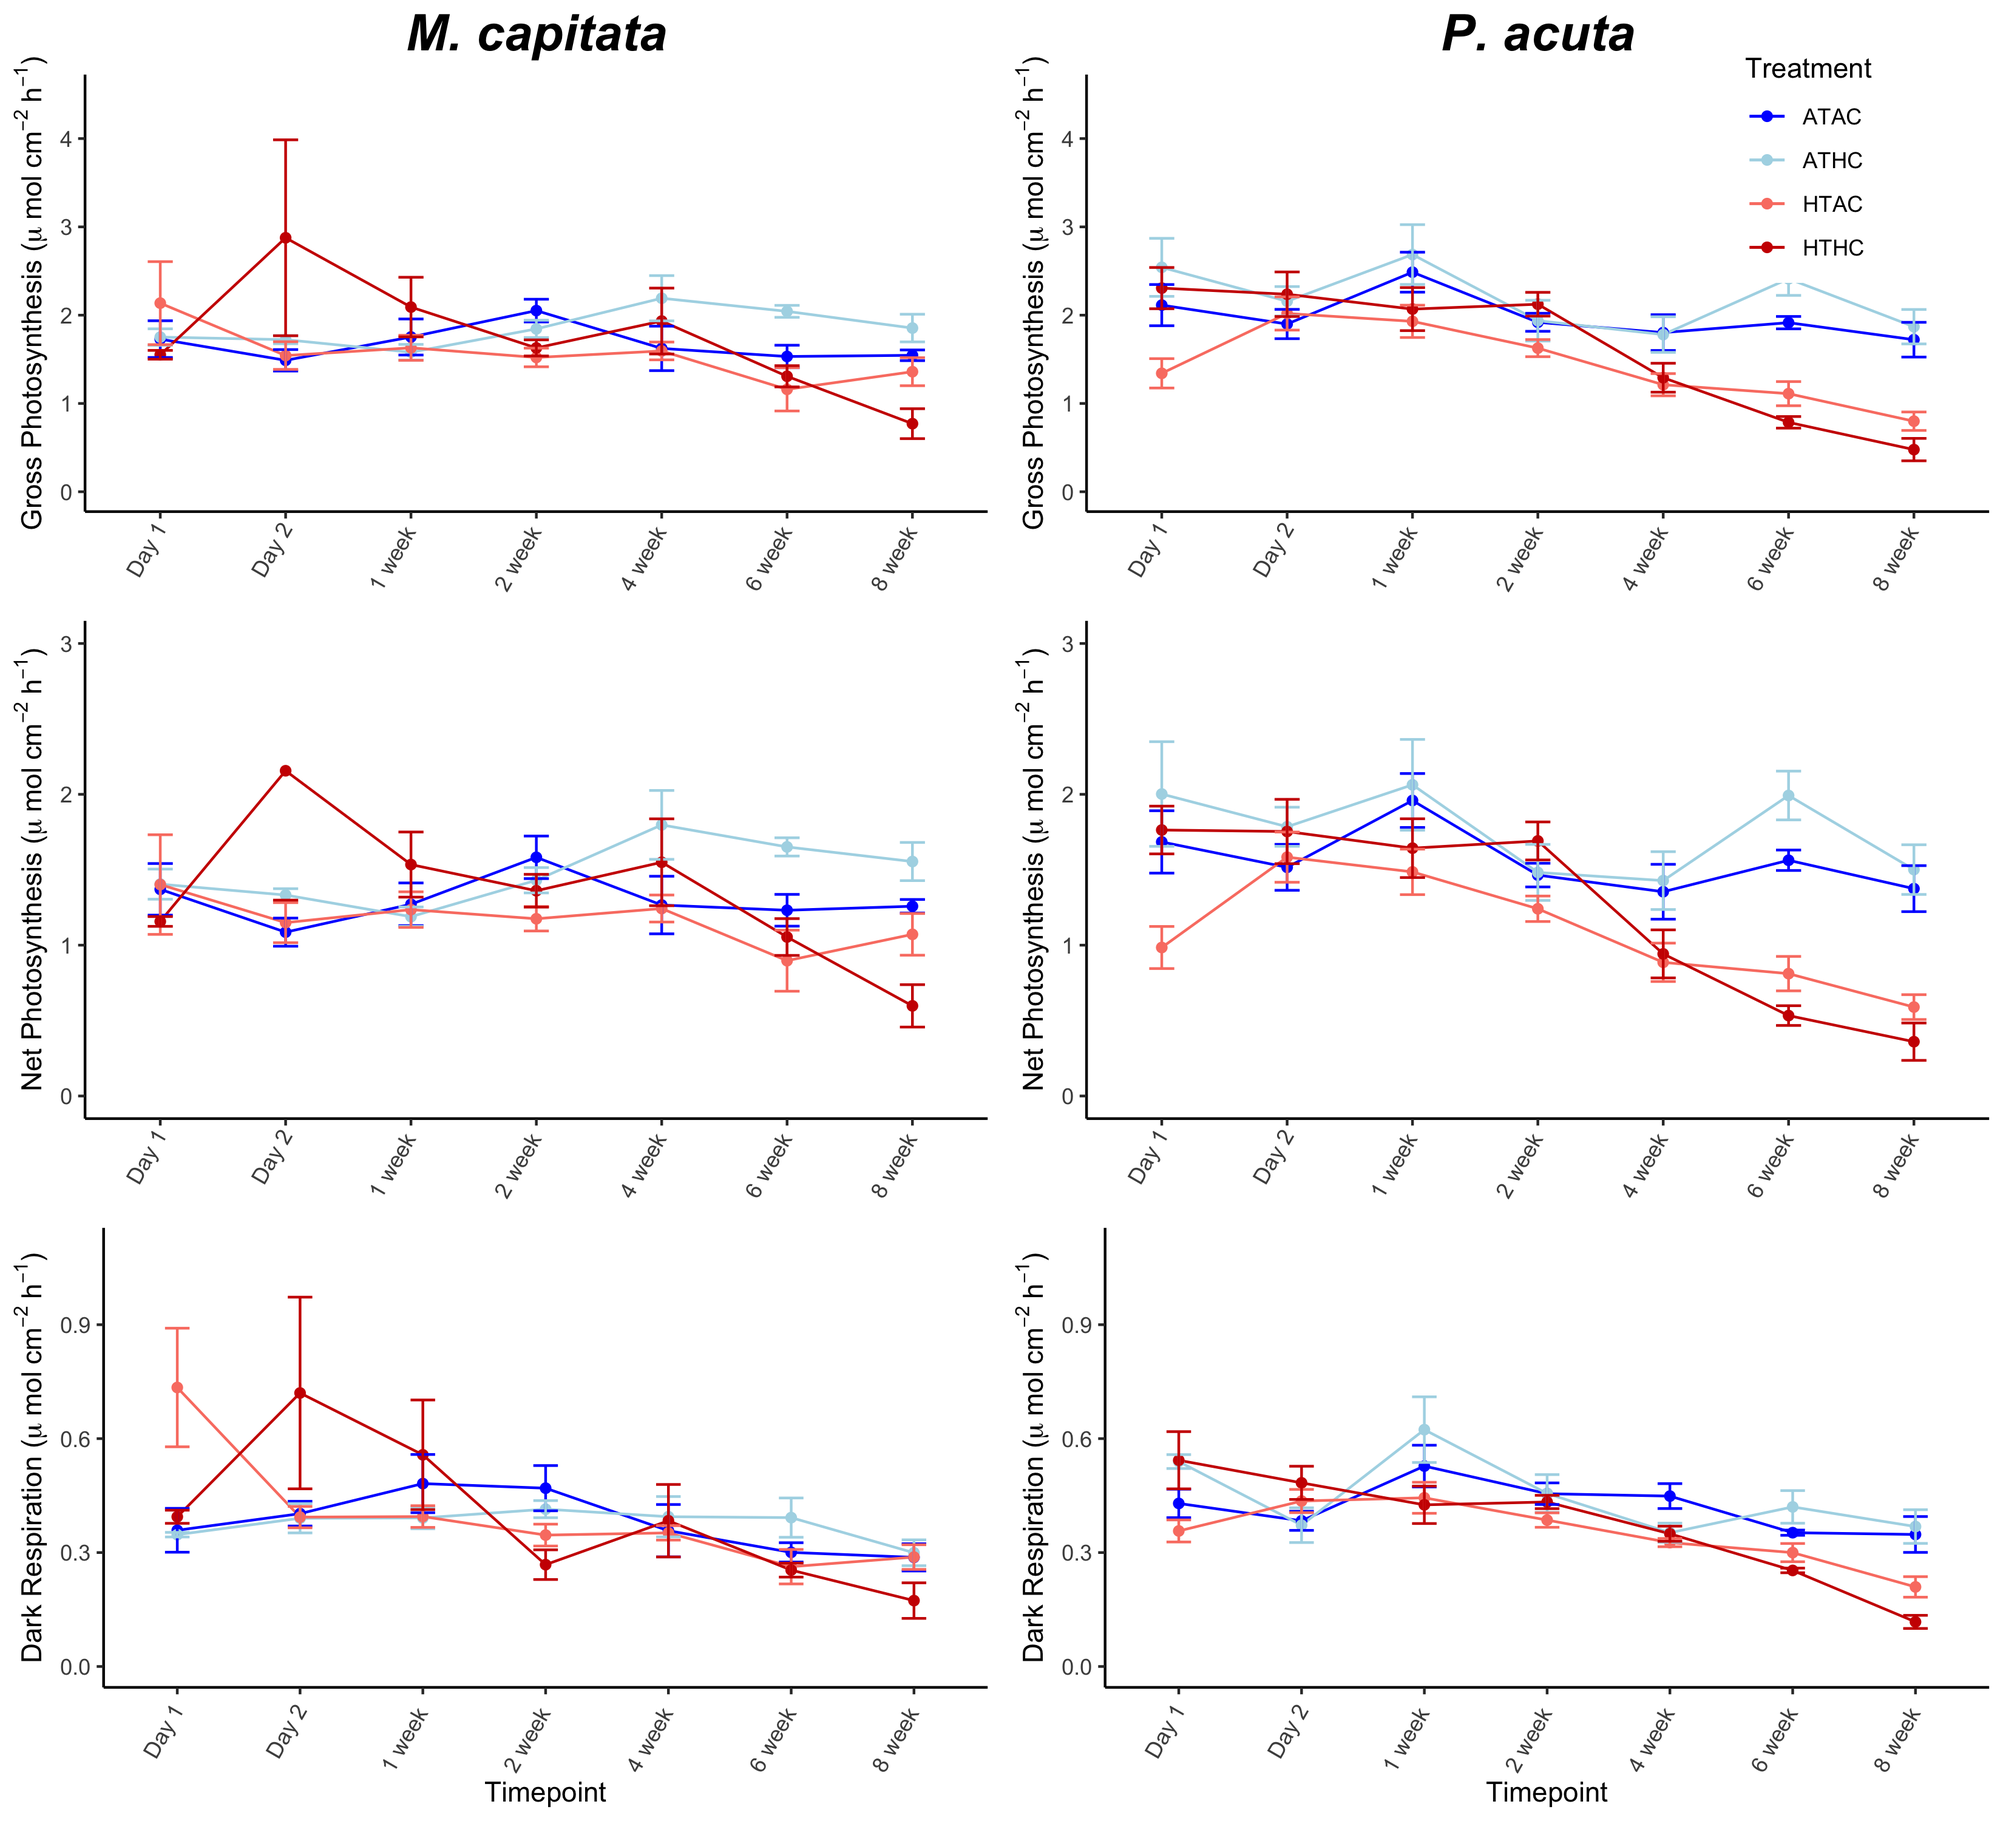
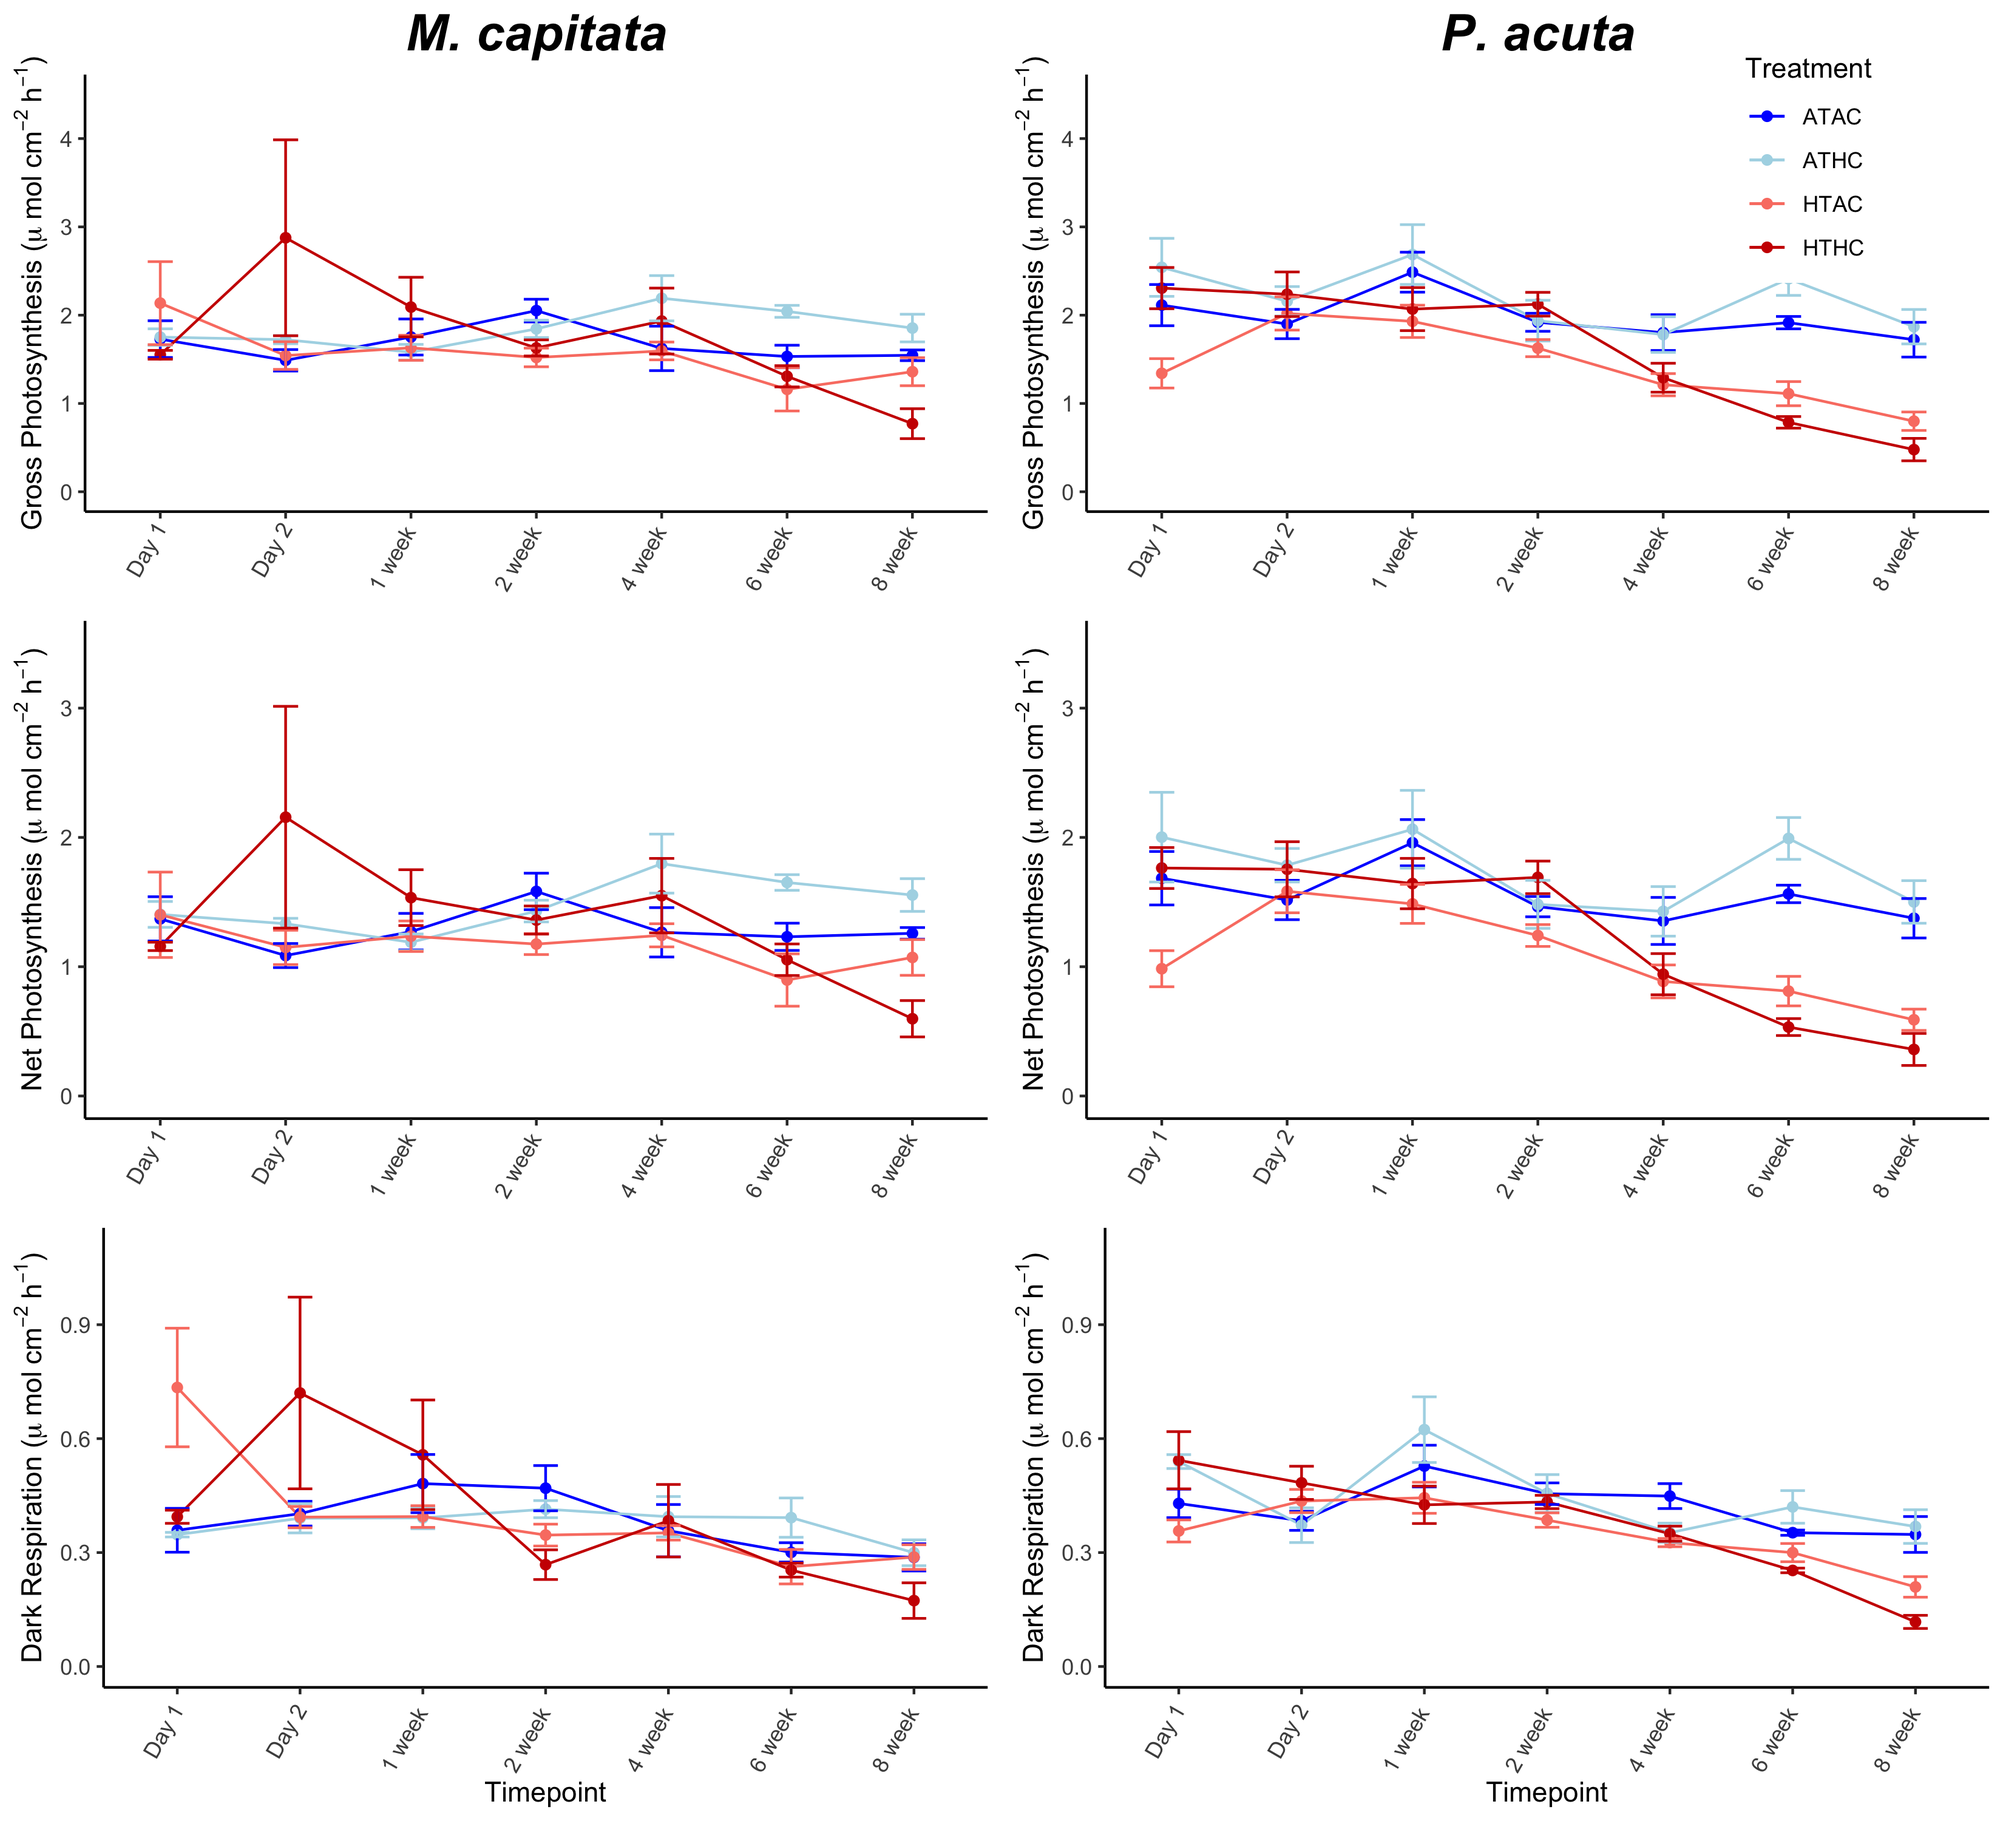
changing Pn on both y axis to 3.5 instead of 3

Changed region(s): [[0.5618, 0.403, 0.9676, 0.589], [0.0624, 0.403, 0.4682, 0.558]]

diff --git a/Results-package.md b/Results-package.md
@@ -1,4 +1,4 @@
-# Results as of 20210108
+# Results as of 20210118
 
 ## Sampling Timeline
 |                      	| Acute Stress 	|       	| Chronic Stress 	|      	|      	|      	|      	|      	|      	|      	| Recovery 	|       	|       	|       	|       	|       	|       	|       	|
@@ -144,6 +144,10 @@ P-2156 missing data; need to look at notebook photos to find this.
 This dataset has been QC'd by Emma; final figure as of 20210118.
 
 ### Soluble Protein
+
+![prot]()
+
+
 
 ### Total Antioxidant Capacity
 
